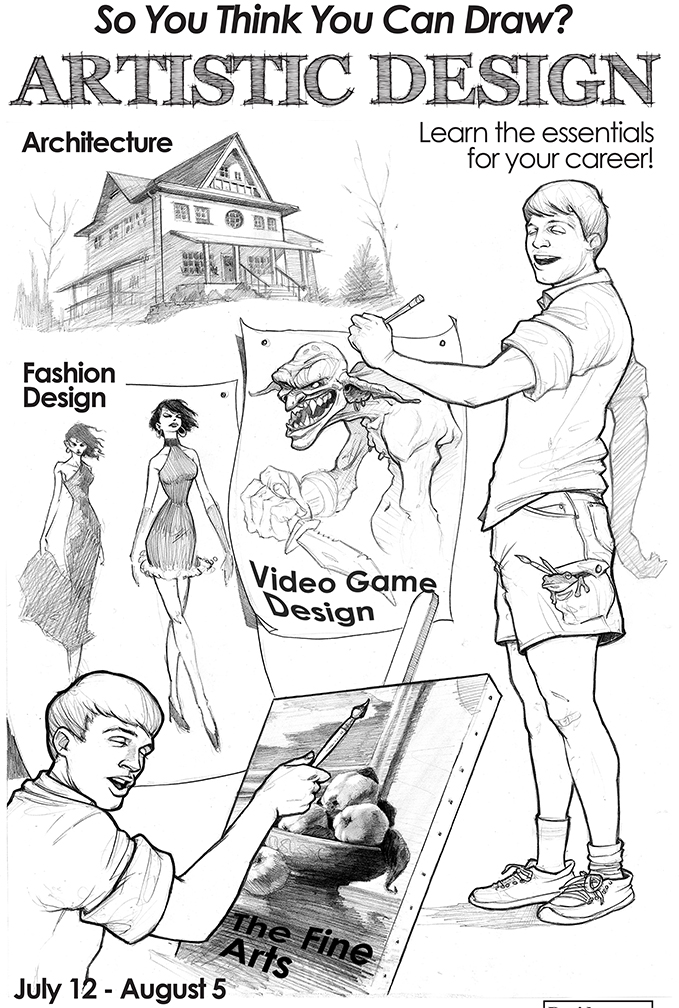
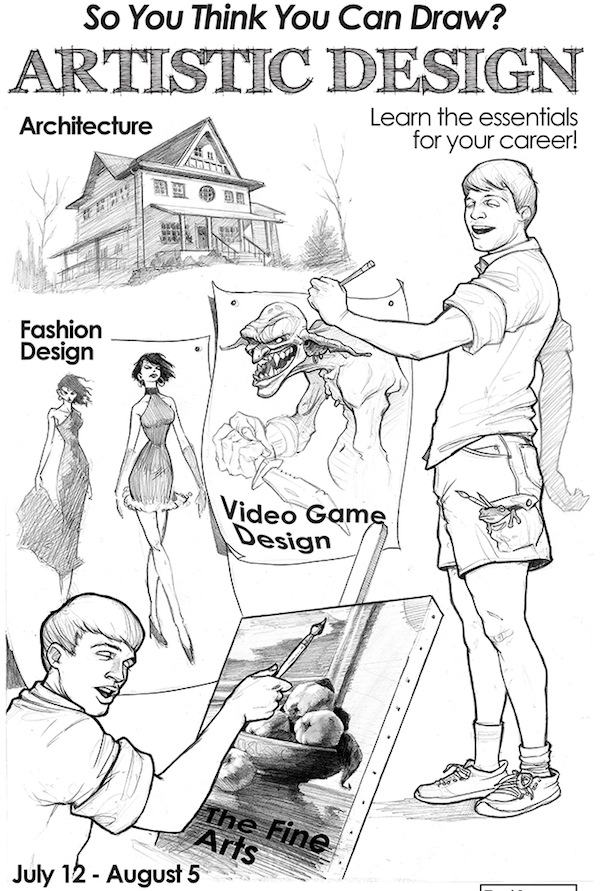
changing picture sizes in illustration folder

diff --git a/templates/services.html b/templates/services.html
@@ -1,6 +1,6 @@
 $def with (header, footer)
 $:header
 	<h3 class='main'>What we do</h3>
-	<p class='entry'>JDD specializes in the visual development of new projects. We focus mainly on concept art, storyboarding, illustration, whiteboard animation, graphic design, and web development. Please contact us for availability and rates<br/><br/>Jhdockery@gmail.com</p>
+	<p class='entry'>JDD specializes in the visual development of new projects. We focus mainly on concept art, storyboarding, illustration, whiteboard animation, graphic design, and web development. Please contact us for availability and rates<br/><br/><img src="/static/img/email.png"></p>
 
 $:footer
